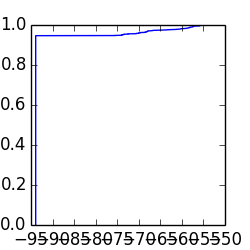
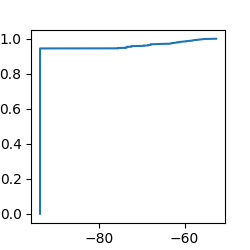
Update study1 results and documentation

Changed region(s): [[0.0, 0.056, 0.98, 0.98]]

diff --git a/src/wifi-he/doc/source/wifi-he-results.rst b/src/wifi-he/doc/source/wifi-he-results.rst
@@ -736,7 +736,7 @@ Study 1 Results
 ===============
 
 The figures in the section were generated using the ns-3-dev-11ax 
-repository as of commit changeset c673c043c29f7063ea666504518b5c432b0344fc.
+repository as of commit changeset 8d5cd31b78fb862d7e9280ca3bc7468306ab6168.
 
 System Throughput
 #################
@@ -849,6 +849,24 @@ Figure :ref:`spectrum-efficiency-study1` illustrates the system throughput for B
 It is observed that spectrum efficiency increases as offered load increases, and plateaus
 generally in the range of 0.0002 - 0.0004 Mbps / Hz / m^2.  Furthermore, spectrum efficiency decreases
 as the number of STAs, n, per BSS increases.
+
+Airtime utilization
+###################
+
+The airtime utilization as offered load is increased is shown below for 
+the center BSS of interest.  A separate line is plotted for each value
+of the number of STAs (e.g., n=5, n=10, n=15, ..., n=40).
+
+.
+
+.. _airtime-utilization-study1:
+
+.. figure:: figures/airtime-utilization-study1.*
+   :align: center 
+
+   Airtime utilization for the BSS of interest in the center of the Study 1 parametric study.
+
+Figure :ref:`airtime-utilization-study1` illustrates the airtime utilization for BSS1.
 
 Latency
 #######
